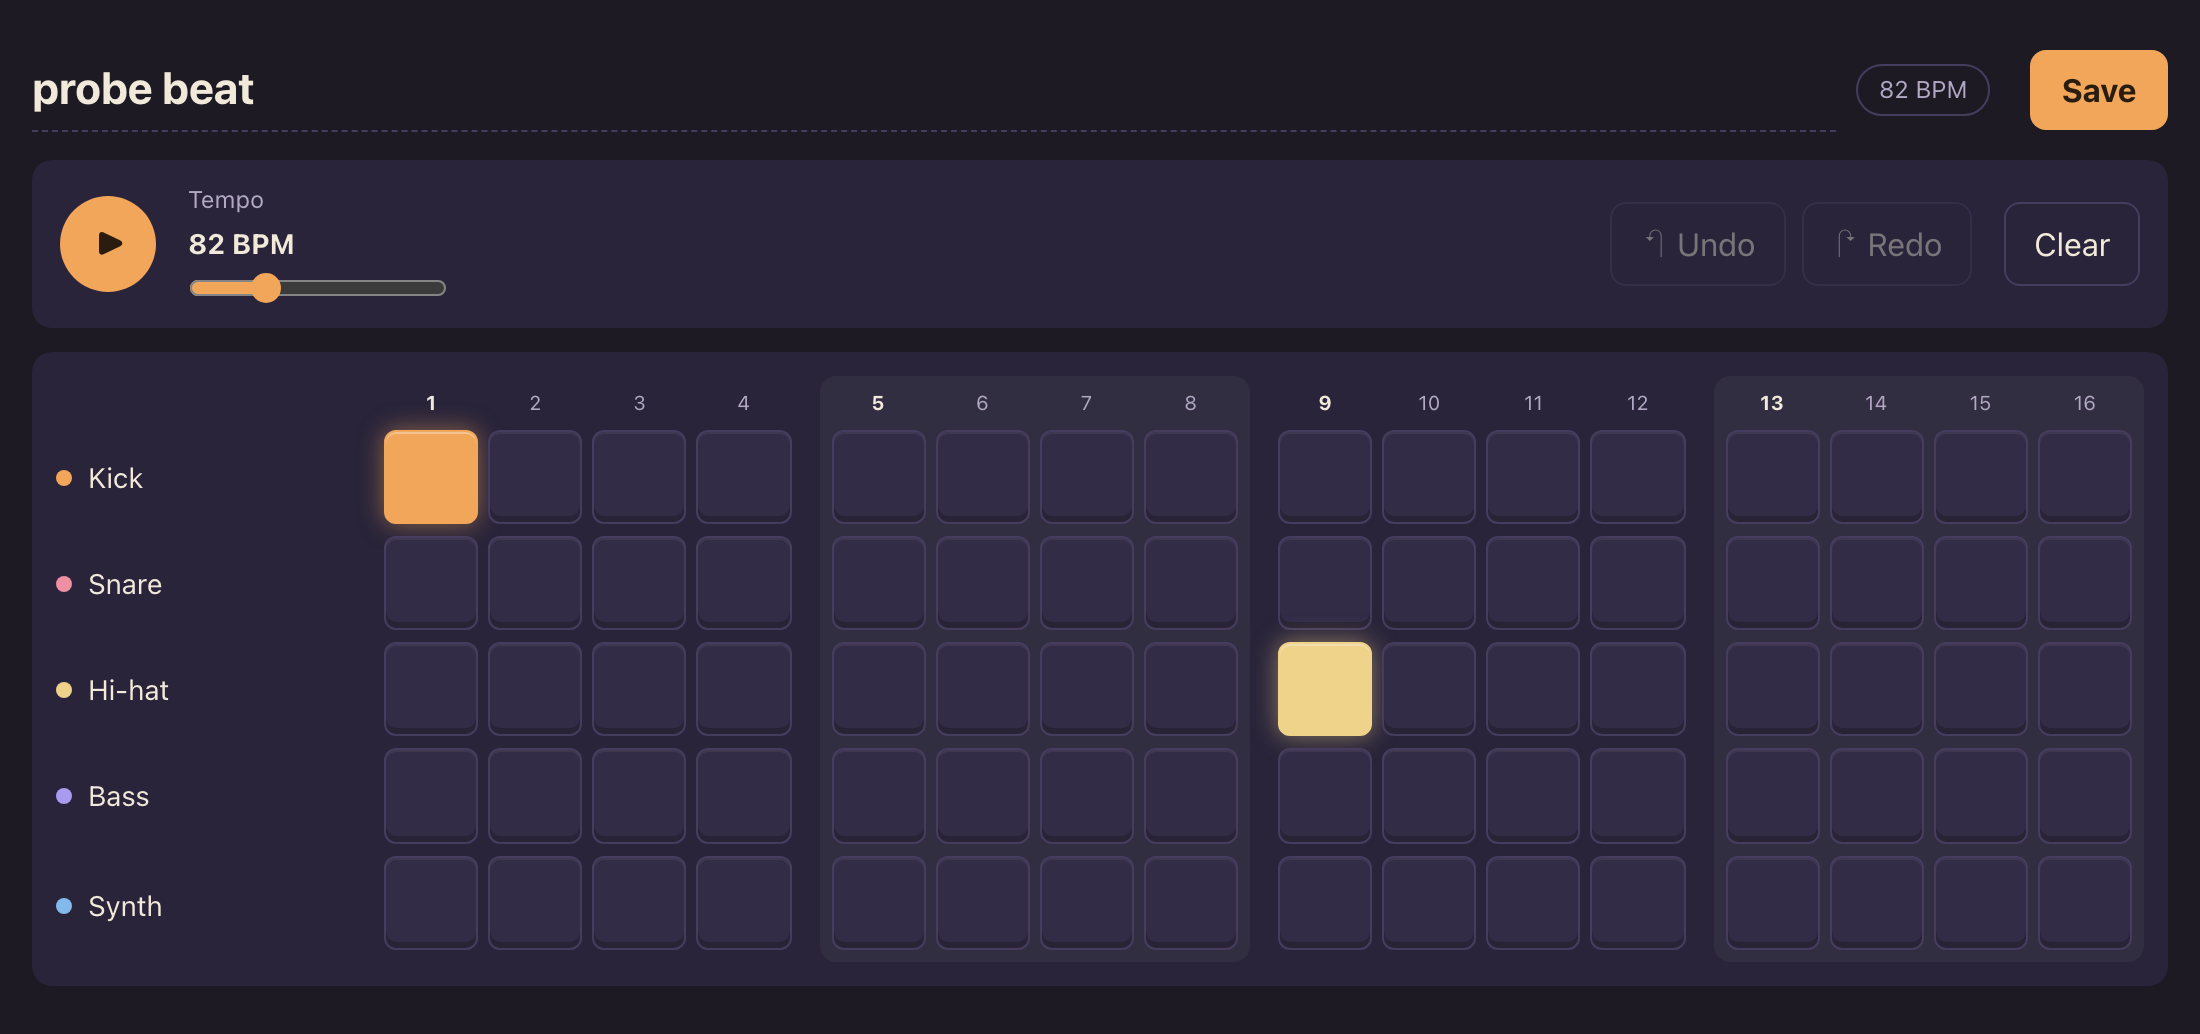
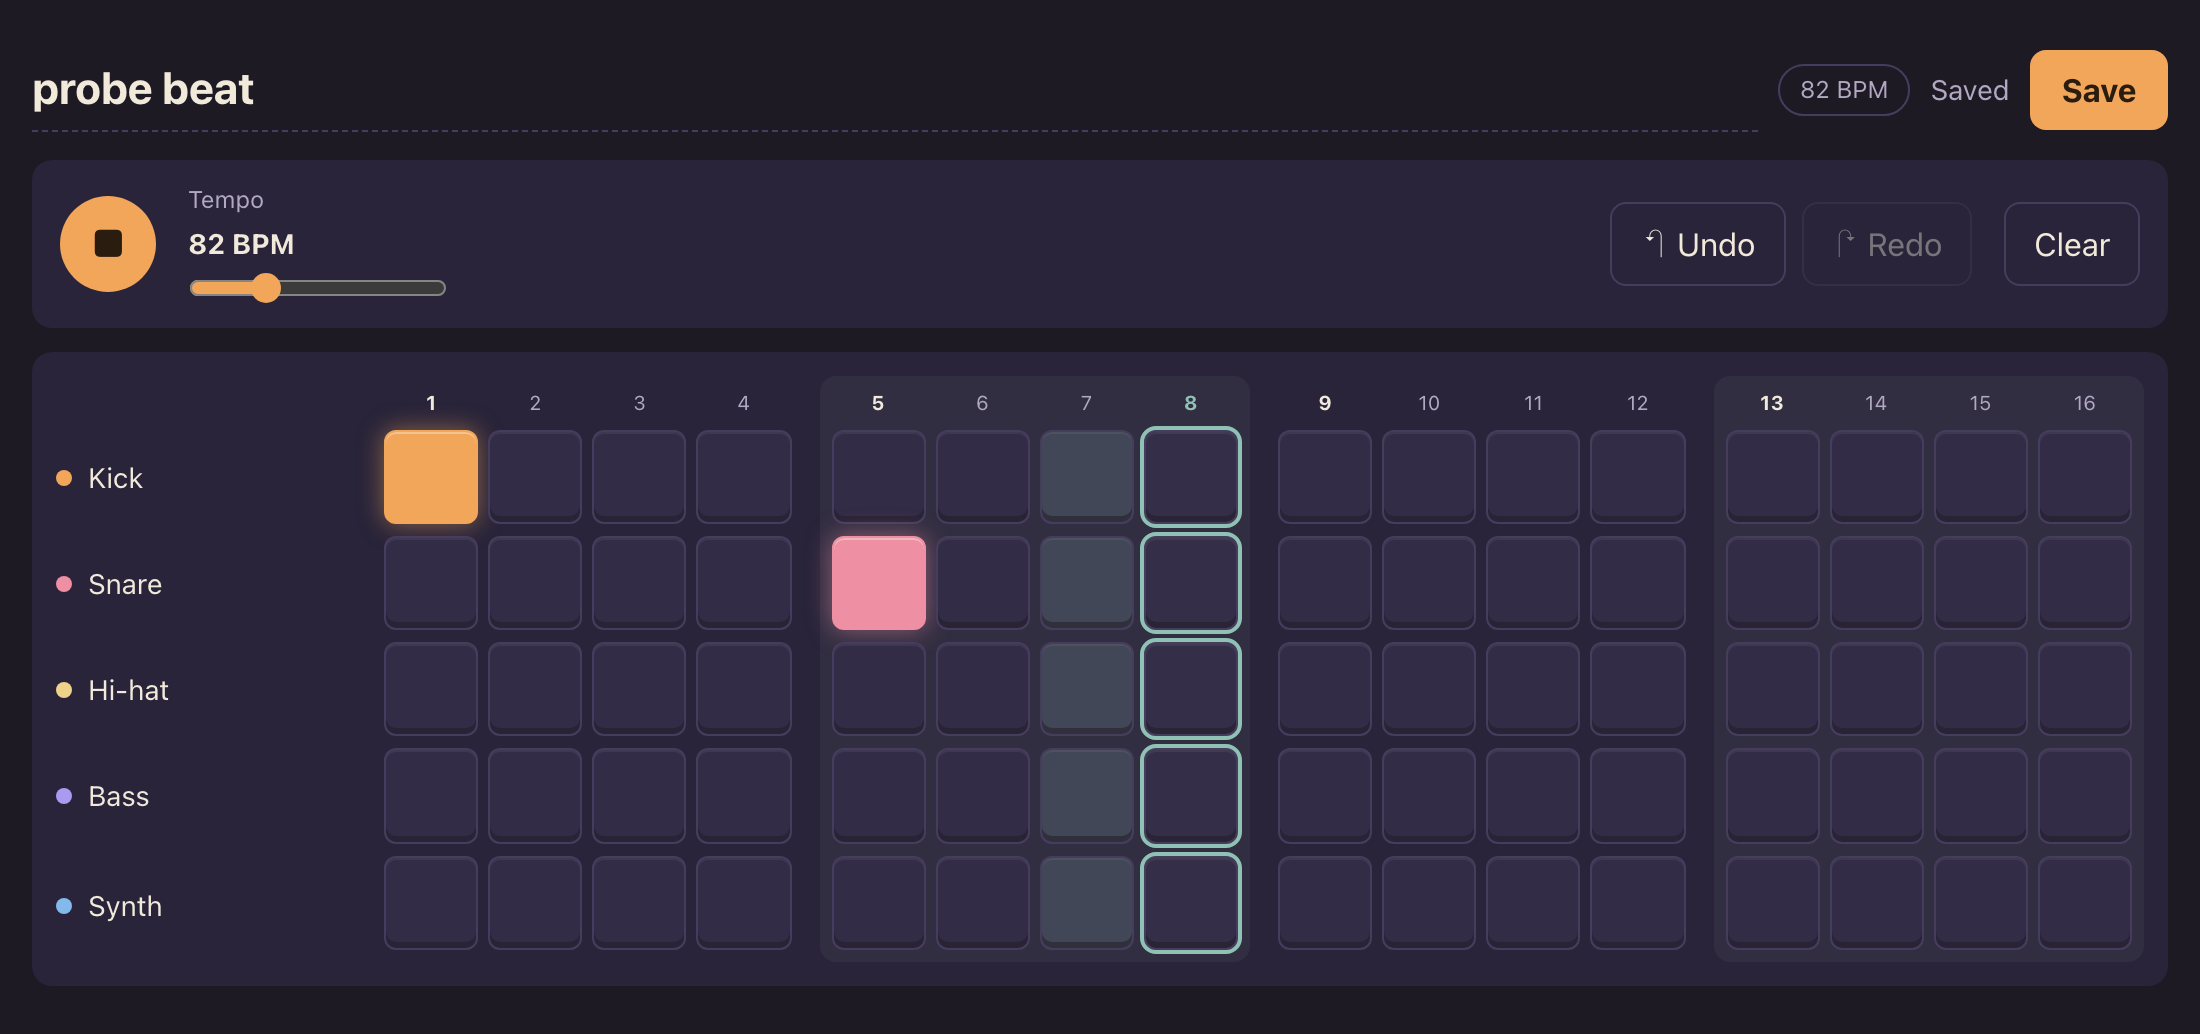
docs(beats): describe the in-place first save in the architecture doc (#8)
The "Save a new beat" flow now says the URL changes without a navigation,
so the editor keeps playing and keeps its undo history, and what links
and Back do afterwards. The PR screenshot shows the editor still playing
right after its first save.

diff --git a/docs/architecture.md b/docs/architecture.md
@@ -48,7 +48,7 @@ flowchart LR
 | Click ♥ on a card | `LikeButton` (client) → `POST /api/beats/{id}/like` → `getCurrentUserId()` → `likeBeat()` → JSON `{ liked, likeCount }` |
 | Register | `AuthForm` → `POST /api/auth/register` → Zod `registerSchema` → `createUser()` (bcrypt) → then Auth.js `signIn("credentials")` sets the JWT cookie |
 | Edit and play a beat | Grid click → `useSequencer` (`sequencerReducer` wrapped by `withHistory`) → new pattern → `usePlayback` → `engine.update()`. The first Play click imports Tone.js and unlocks audio. No server involved. |
-| Save a new beat | `SaveBar` → `POST /api/beats` → `createBeat()` → the URL becomes `/beats/{id}`. Signed out, it keeps the beat as a draft in `localStorage`, goes to `/signin`, and the editor at `/` starts from that draft when you come back. |
+| Save a new beat | `SaveBar` → `POST /api/beats` → `createBeat()` → `history.replaceState` changes the URL to `/beats/{id}` without a navigation, so the same editor stays on screen (still playing, same undo history) and later saves `PATCH` that beat. A link back to `/` afterwards starts a new beat; Back to a `/beats/{id}` the editor isn't showing loads that beat's page. Signed out, Save keeps the beat as a draft in `localStorage`, goes to `/signin`, and the editor at `/` starts from that draft when you come back. |
 | Open `/beats/{id}` | `SavedBeatEditor` (inside `<Suspense>`, after `connection()`) → `getCurrentUserId()` → `getBeat()` → the owner gets the editor, starting a fresh undo history from the saved beat; anyone else gets the 404 page. |
 
 ## The editor
